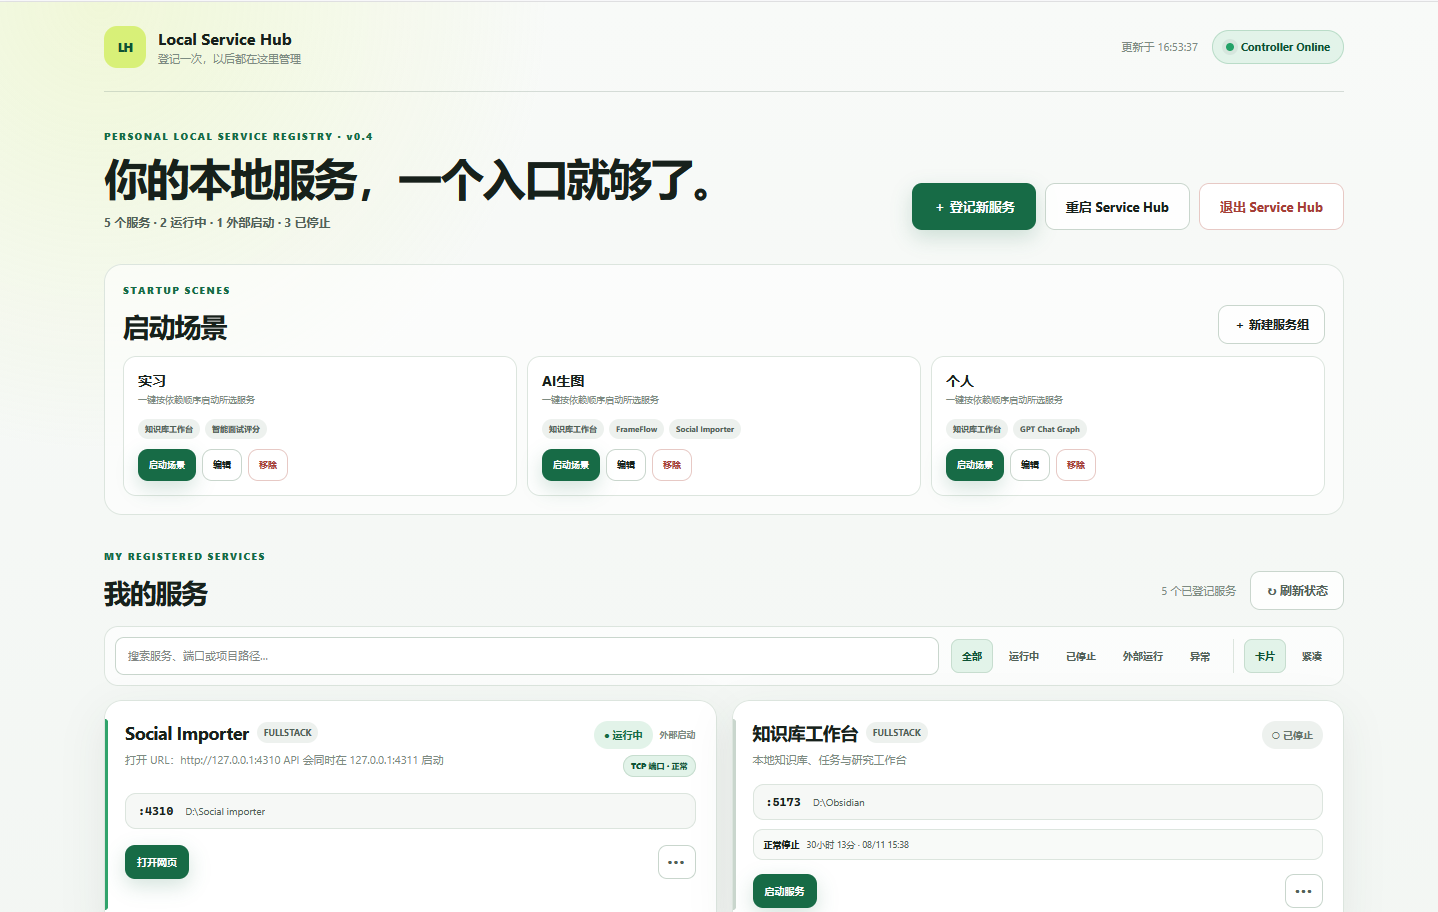
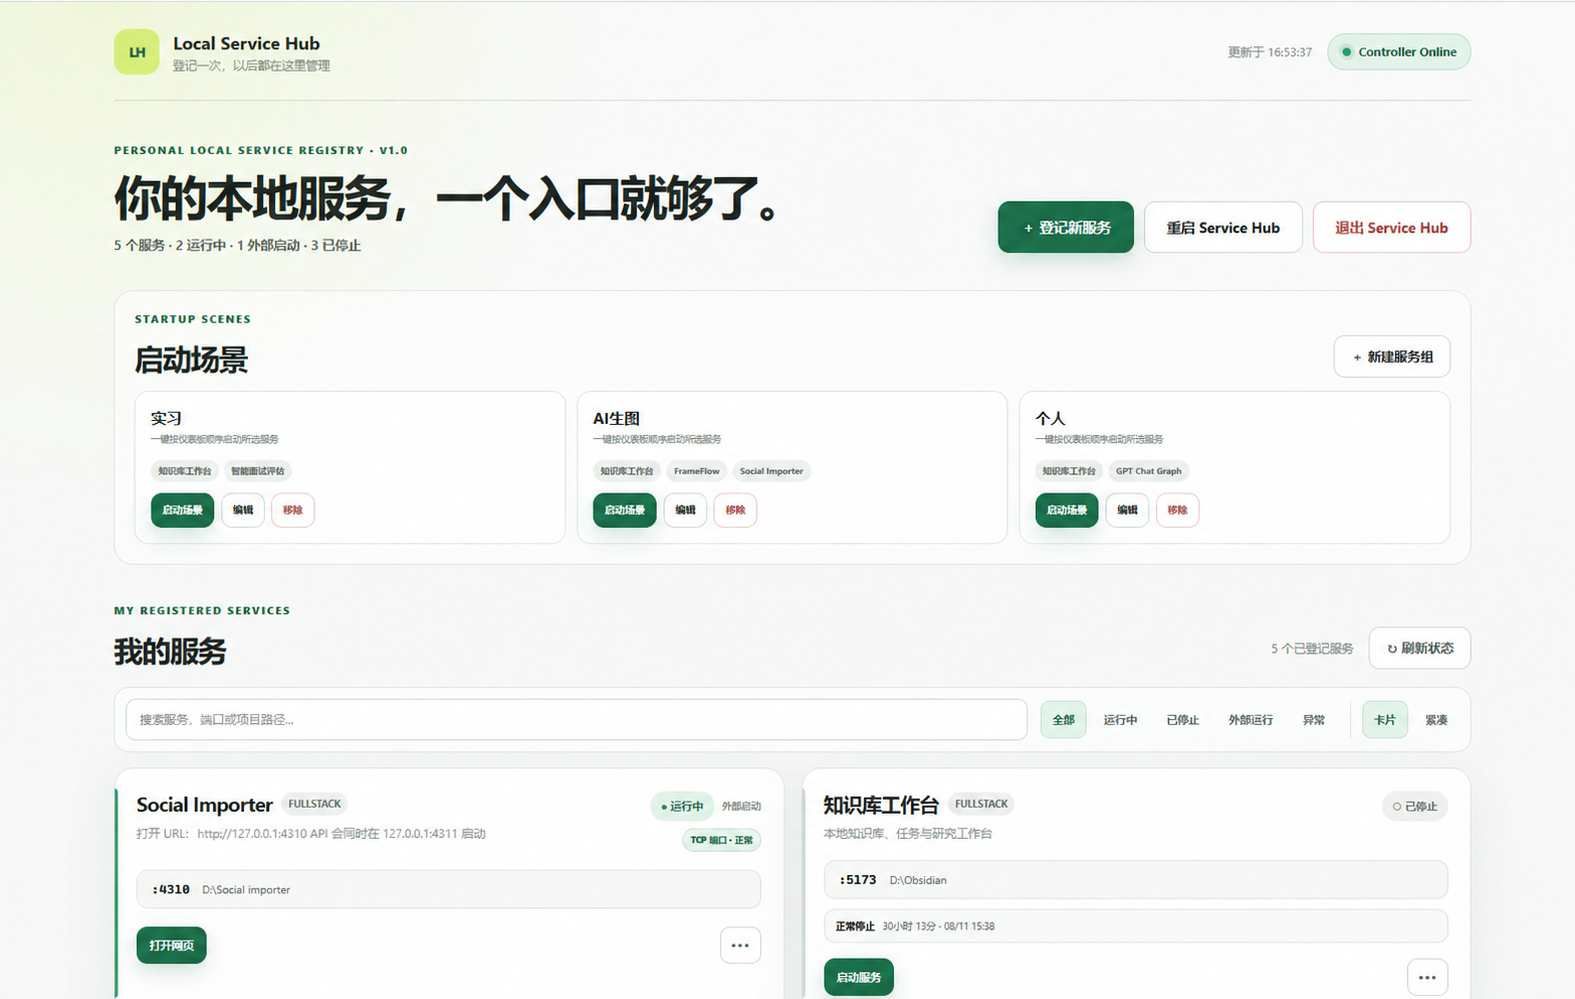
docs: align product preview to V1.0

diff --git a/service-hub/static/index.html b/service-hub/static/index.html
@@ -26,7 +26,7 @@
       <main>
         <div class="intro">
           <div>
-            <p class="eyebrow">PERSONAL LOCAL SERVICE REGISTRY · v1.0.0</p>
+            <p class="eyebrow">PERSONAL LOCAL SERVICE REGISTRY · V1.0</p>
             <h1>你的本地服务，一个入口就够了。</h1>
             <p id="hero-summary" class="hero-summary">正在读取服务状态…</p>
           </div>

diff --git a/tests/test_version.py b/tests/test_version.py
@@ -9,7 +9,6 @@ PROJECT_ROOT = Path(__file__).resolve().parents[1]
 
 
 def test_public_version_markers_match_runtime_version() -> None:
-    expected = f"v{__version__}"
     readme = (PROJECT_ROOT / "README.md").read_text(encoding="utf-8")
     index = (PROJECT_ROOT / "service-hub" / "static" / "index.html").read_text(
         encoding="utf-8"
@@ -18,6 +17,7 @@ def test_public_version_markers_match_runtime_version() -> None:
         PROJECT_ROOT / "service-hub" / "services" / "config_generator.py"
     ).read_text(encoding="utf-8")
 
-    assert readme.startswith(f"# Local Service Hub {expected}\n")
-    assert expected in index
+    assert __version__ == "1.0.0"
+    assert readme.startswith("# Local Service Hub V1.0\n")
+    assert "PERSONAL LOCAL SERVICE REGISTRY · V1.0" in index
     assert "__version__" in generated_header_source

diff --git a/docs/v1.0/RELEASE_NOTES.md b/docs/v1.0/RELEASE_NOTES.md
@@ -1,6 +1,6 @@
-# Local Service Hub v1.0
+# Local Service Hub V1.0
 
-Local Service Hub v1.0 是第一个面向公开使用的正式版本，支持在 Windows 上集中登记、查看和控制个人本地服务。
+Local Service Hub V1.0 是第一个面向公开使用的正式版本，支持在 Windows 上集中登记、查看和控制个人本地服务。
 
 ## 界面预览
 

diff --git a/README.md b/README.md
@@ -1,4 +1,4 @@
-# Local Service Hub v1.0.0
+# Local Service Hub V1.0
 
 Local Service Hub 是面向 Windows 的个人本地服务登记与控制中心。它只展示用户主动登记的服务，并通过 Process Compose 提供启动、停止、重启、状态检测和日志查看能力。
 
